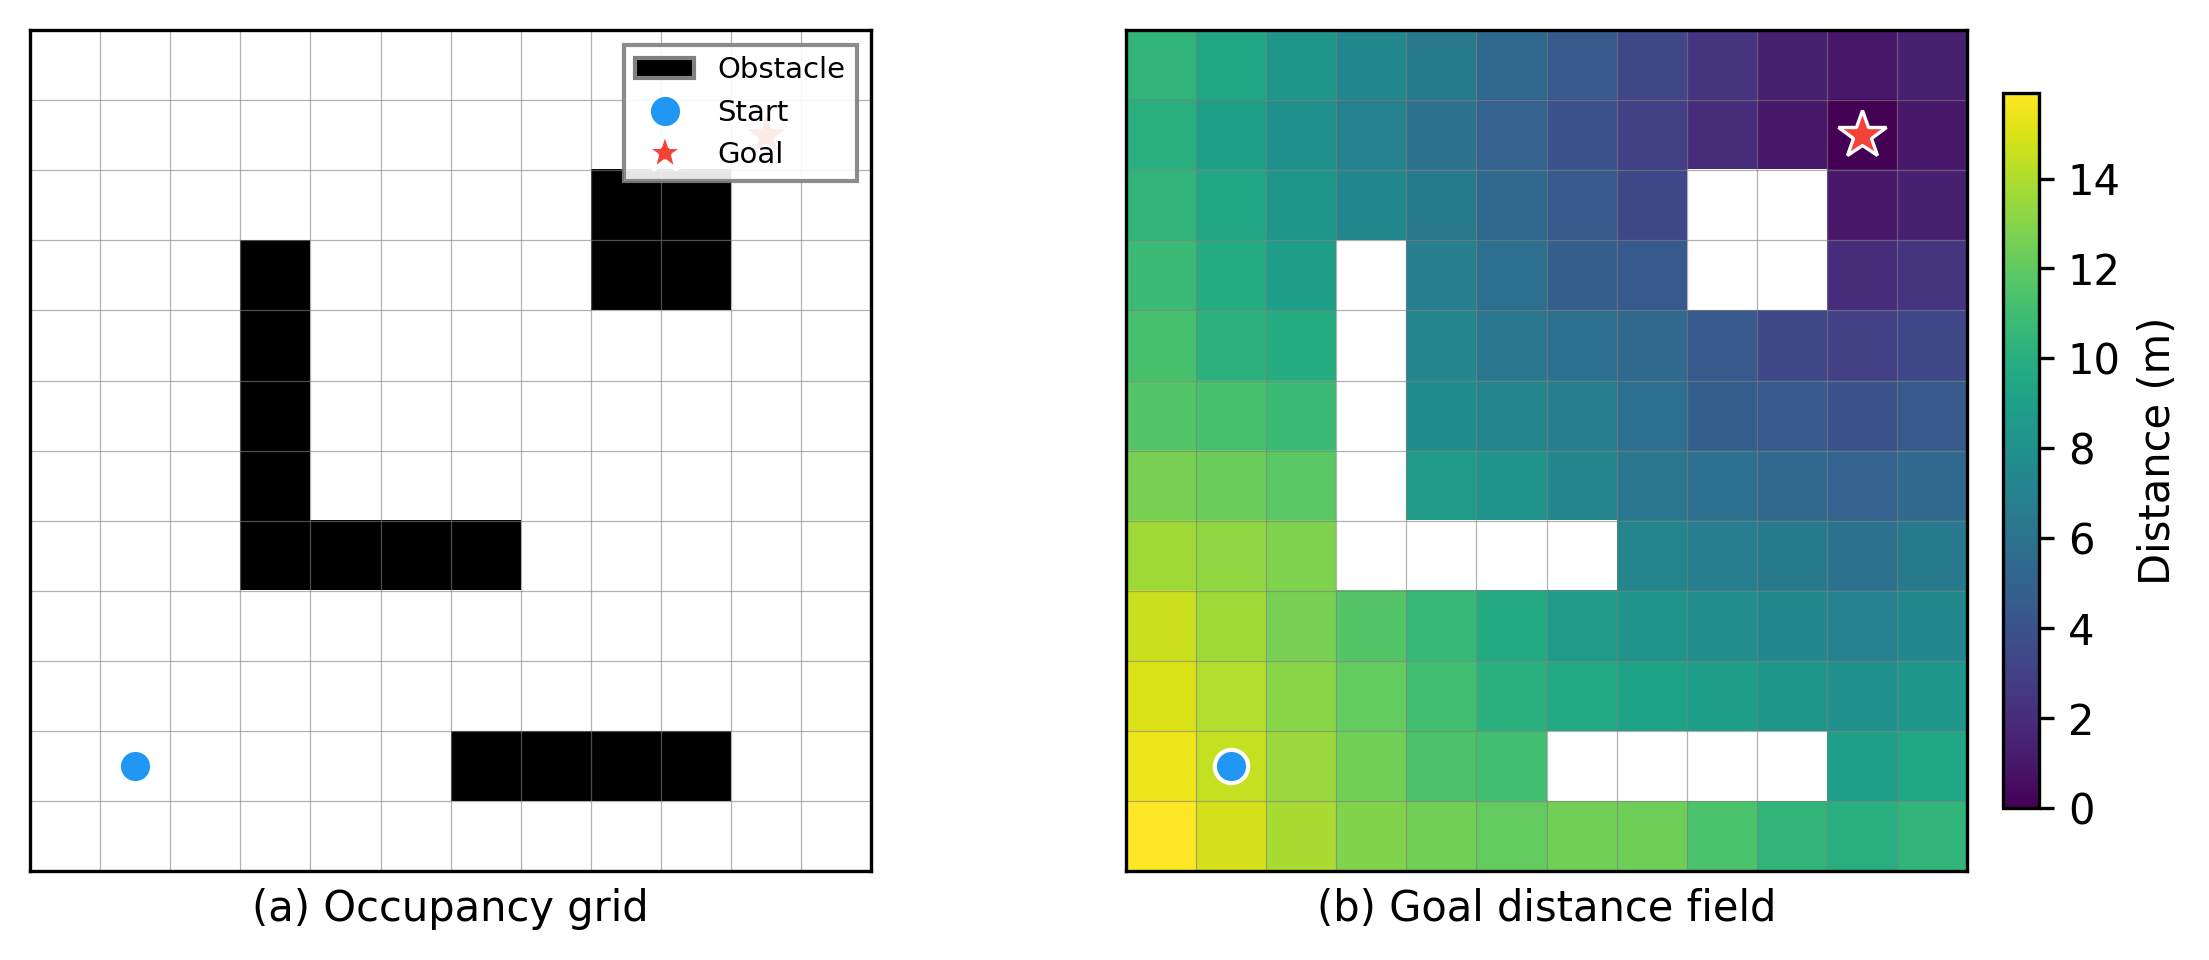
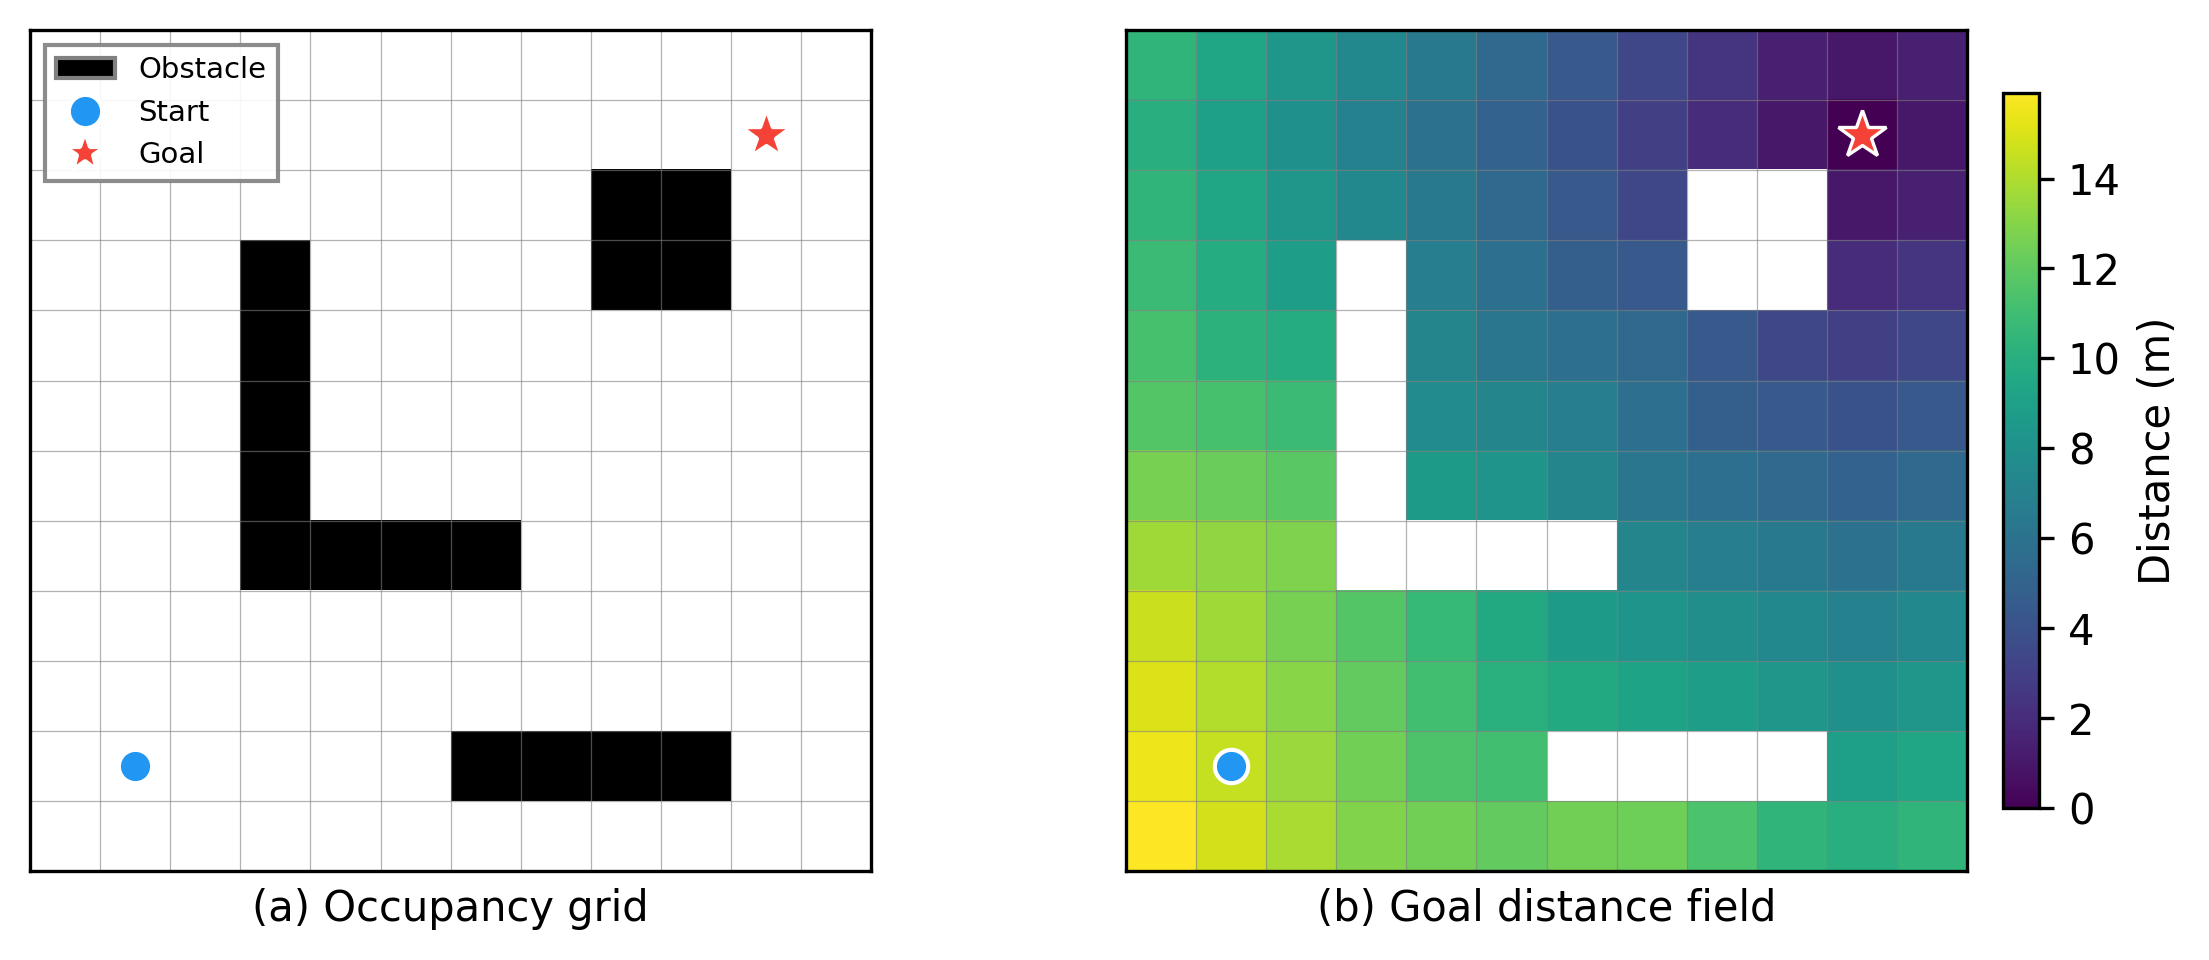
chore: backup before de-AI-flavor pass on reward function section

Changed region(s): [[0.2811, 0.0312, 0.4061, 0.1875], [0.0, 0.0312, 0.1249, 0.1875]]

diff --git a/paper/main.tex b/paper/main.tex
@@ -142,7 +142,7 @@
 
 \begin{figure}[!htbp]
 \centering
-\includegraphics[width=0.55\columnwidth]{fig2.pdf}
+\includegraphics[width=0.35\columnwidth]{fig2.pdf}
 \caption{地面无人车实验平台}
 \label{fig:platform}
 \end{figure}
@@ -218,7 +218,7 @@
 
 \paragraph{（1）状态空间}
 
-路径规划要求智能体同时掌握自身运动状态和周围的空间布局，观测因此由一个标量向量和一张多通道地图组成：
+地面无人车需要同时获取自身运动学状态和周围环境，观测由标量向量与双通道地图两部分组成：
 \begin{equation}
   o_t = \left( \mathbf{F}_t, \mathbf{M}_t \right)
 \end{equation}
@@ -227,9 +227,9 @@
 \begin{equation}
   \mathbf{F}_t = \big[ x, y, g_x, g_y , \sin\theta, \cos\theta, v, \delta, \phi, \alpha, d_{\min} \big]
 \end{equation}
-其中 $(x, y)$ 为自车全局位置，$(g_x, g_y)$ 为目标点坐标，$(\sin\theta, \cos\theta)$ 将偏航角编码为连续量，$v$ 和 $\delta$ 分别是纵向车速与前轮转角。$\phi$ 取自 Dijkstra 距离场在当前位置的插值，$\alpha$ 为目标相对方位角，$d_{\min}$ 则通过欧氏距离变换得到当前位置到最近障碍物的距离。
+其中 $(x, y)$ 为在全局坐标系下的位置，$(g_x, g_y)$ 是目标位置，航向角以 $(\sin\theta, \cos\theta)$ 表示，$v$ 和 $\delta$ 分别是纵向车速与前轮转角。$\phi$ 为代价场下到终点的距离，$\alpha$ 为目标相对方位角，$d_{\min}$ 为通过欧氏距离变换得到的车体表面到最近障碍物的最小间隙。
 
-地图部分 $\mathbf{M}_t \in \mathbb{R}^{2 \times N \times N}$（$N = 12$）由全局栅格地图降采样后按通道维度拼接而成：
+地图部分由全局栅格地图降采样后堆叠两个通道形成：
 \begin{equation}
   \mathbf{M}_t = \big[ \mathbf{O}_t; \mathbf{G}_t \big]
 \end{equation}
@@ -237,19 +237,14 @@
 \begin{figure}[!htbp]
 \centering
 \includegraphics[width=\columnwidth]{fig5.pdf}
-\caption{多通道地图张量的两层特征图示意。(a)~占据栅格 $\mathbf{O}_t$：黑色区域为障碍物，白色为可通行区域；(b)~Dijkstra目标距离场 $\mathbf{G}_t$：颜色编码从各自由空间栅格沿无碰撞路径到达目标点的测地线距离，白色区域为不可达障碍物。}
+\caption{双通道地图张量的特征图示意。(a)~占据栅格 $\mathbf{O}_t$：黑色区域为障碍物，白色为可通行区域；(b)~Dijkstra目标距离场 $\mathbf{G}_t$：颜色编码从各自由空间栅格沿无碰撞路径到达目标点的测地线距离，白色区域为不可达障碍物。}
 \label{fig:map_channels}
 \end{figure}
 
-两层通道如图~\ref{fig:map_channels}所示：$\mathbf{O}_t$ 是全局占据栅格，$\mathbf{G}_t$ 是 Dijkstra 目标距离场。两者的像素值各自独立归一化到 $[-1, 1]$。值得注意的是，障碍物安全裕度并未在地图通道中重复编码——$d_{\min}$ 已经以标量形式携带了这一信息，再放入地图只会增加冗余。
-
-在空间观测的范围选择上，本文没有采用自车中心（Ego-centric）的局部裁剪，而是让智能体在每个时刻都观测整张降采样后的全局地图。这样做的好处很直接：智能体可以一次看到目标位置和所有狭窄通道之间的拓扑关系，不存在滑动窗口把关键通路截断的问题。推理时，$\mathbf{M}_t$ 先经卷积编码器提取空间特征，再与 $\mathbf{F}_t$ 拼接送入全连接层，输出各离散动作的 $Q$ 值。
-
-这里有一个关键的分工：$N \times N$ 低分辨率地图负责宏观路径结构——哪里是通行走廊、哪里是障碍物密集区，卷积网络从中提取这些信息；而逐棵障碍物的精细碰撞回避交给动作掩码在原始地图分辨率上处理，详见第~\ref{sec:masking}~节。这种分工之所以可行，与 Dijkstra 距离场的一个性质有关：$\mathbf{G}_t$ 在原始 $W \times H$ 分辨率上经八连通 Dijkstra 算法计算，记录了绕行障碍物的最短路径距离。一棵孤立障碍物的物理尺寸可能远小于降采样后的一个像素，但它对距离场的扰动范围远大于自身尺寸，双线性插值降采样后梯度方向依然指向正确的绕障路径。换言之，低分辨率卷积输入和原始分辨率动作掩码各司其职，一起保证避障的可靠性。
-
+如图~\ref{fig:map_channels}所示，$\mathbf{O}_t$ 是全局占据栅格，$\mathbf{G}_t$ 是代价场。
 \paragraph{（2）动作空间}
 
-首先构造一个动作查找表$\mathbf{T}\in\mathbb{R}^{35\times2}$，每个动作对应一组$[\dot{\delta},\, a]$。动作空间可表示为两个离散集合的笛卡尔积：
+定义离散动作空间$A$，共含35个动作，每个动作对应一组$[\dot{\delta},\, a]$。$A$可表示为两个离散集合的笛卡尔积：
 \begin{equation}
   A = \{(\dot{\delta}_i, a_j) \mid \dot{\delta}_i \in \Delta_{\dot{\delta}},\, a_j \in \Delta_a\},\quad |A|=7\times5=35
 \end{equation}

diff --git a/paper/media/fig5.py b/paper/media/fig5.py
@@ -92,7 +92,7 @@ legend_elements = [
     plt.Line2D([0], [0], marker="*", color="w", markerfacecolor="#F44336",
                markersize=10, label="Goal"),
 ]
-axes[0].legend(handles=legend_elements, loc="upper right",
+axes[0].legend(handles=legend_elements, loc="upper left",
                fontsize=7, frameon=True, fancybox=False,
                edgecolor="gray", facecolor="white", framealpha=0.9)
 
